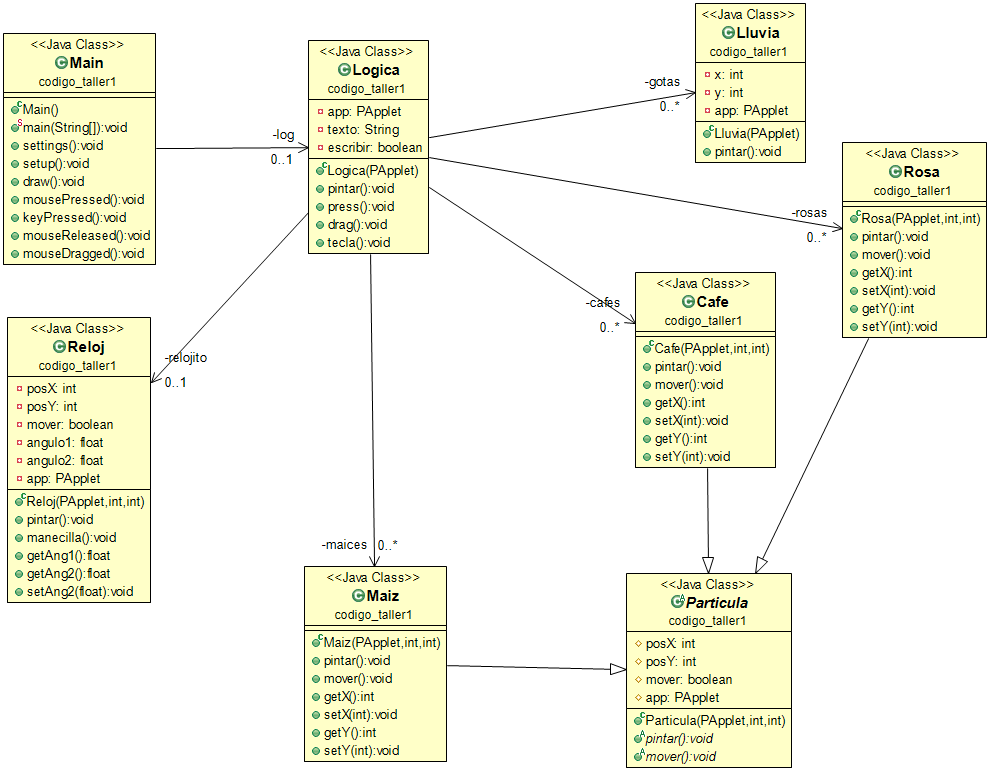
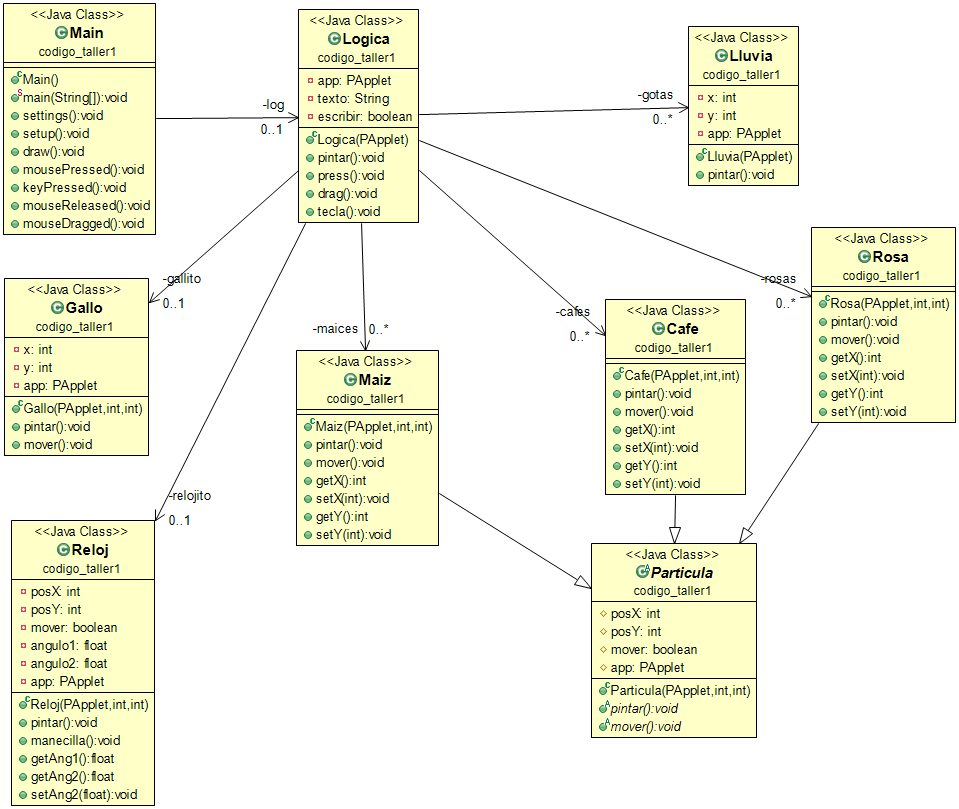
añadir gallo

diff --git a/src/codigo_taller1/Gallo.java b/src/codigo_taller1/Gallo.java
@@ -1,0 +1,26 @@
+package codigo_taller1;
+
+import processing.core.PApplet;
+
+public class Gallo {
+	
+	private int x;
+	private int y;
+	private PApplet app;
+	
+	public Gallo(PApplet app, int x, int y){
+		
+		this.x = x;
+		this.y = y;
+		this.app = app;
+	}
+	
+	public void pintar() {
+		
+		
+	}
+	
+	public void mover(){
+		
+	}
+}

diff --git a/src/codigo_taller1/Logica.java b/src/codigo_taller1/Logica.java
@@ -12,6 +12,7 @@ public class Logica {
 		private LinkedList<Cafe> cafes;
 		private LinkedList<Rosa> rosas;
 		private Reloj relojito;
+		private Gallo gallito;
 		private LinkedList<Lluvia> gotas;
 		private boolean escribir;
 		
